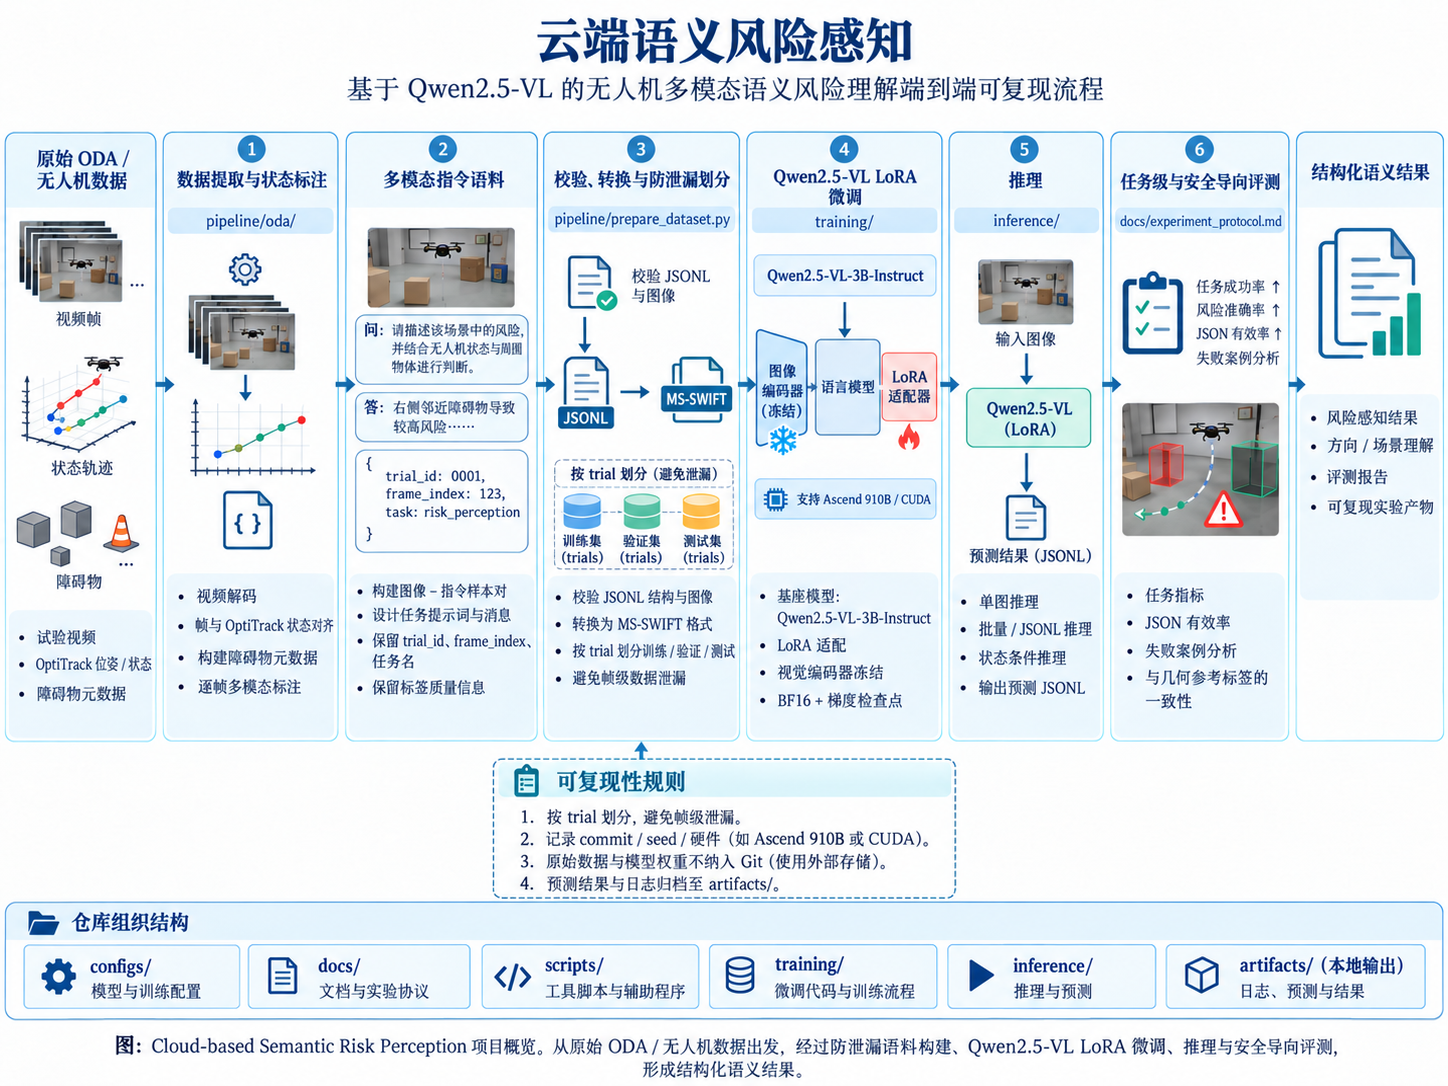
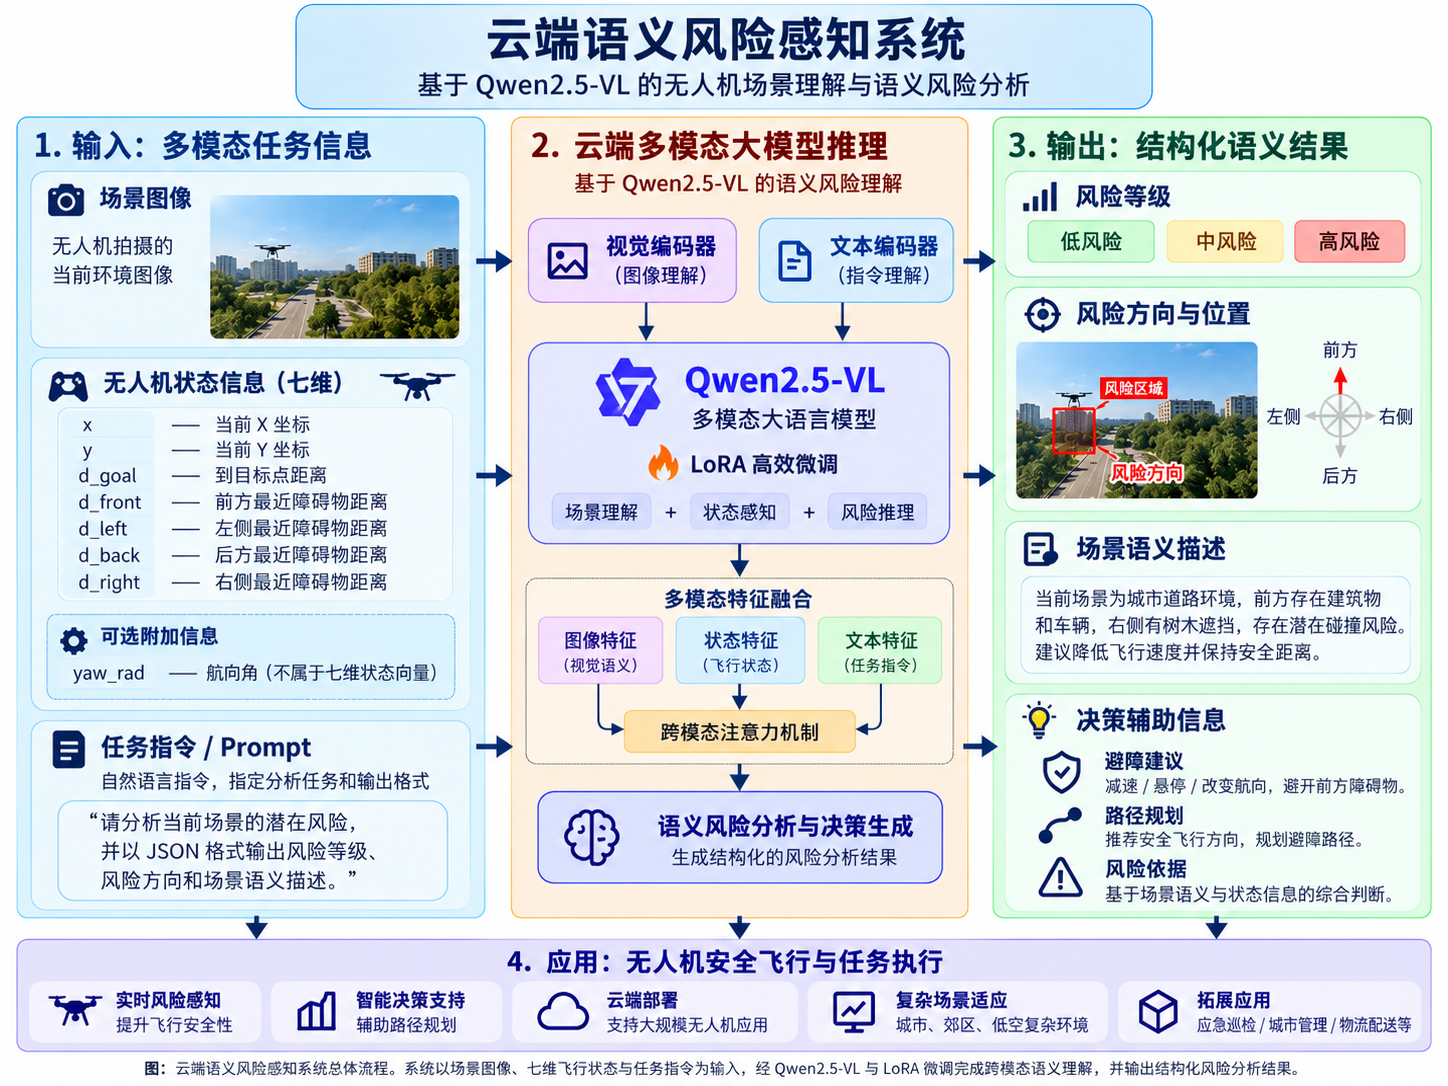
Replace README overview with updated system diagram

diff --git a/README.md b/README.md
@@ -2,9 +2,9 @@
 
 This repository contains the reproducible data, training, inference, and evaluation pipeline for cloud-based semantic risk perception with Qwen2.5-VL.
 
-[![Cloud-based semantic risk perception workflow: data preparation, Qwen2.5-VL LoRA fine-tuning, inference, and evaluation](docs/assets/project-overview.png)](docs/assets/project-overview.png)
+[![Cloud-based semantic risk perception system: scene images, seven-dimensional UAV state, and task prompts as inputs to Qwen2.5-VL for structured semantic risk analysis](docs/assets/project-overview.png)](docs/assets/project-overview.png)
 
-*Project overview. Click the image to view it at full resolution.*
+*System overview. Click the image to view it at full resolution.*
 
 The code is organized in the same order as the method in a paper:
 
